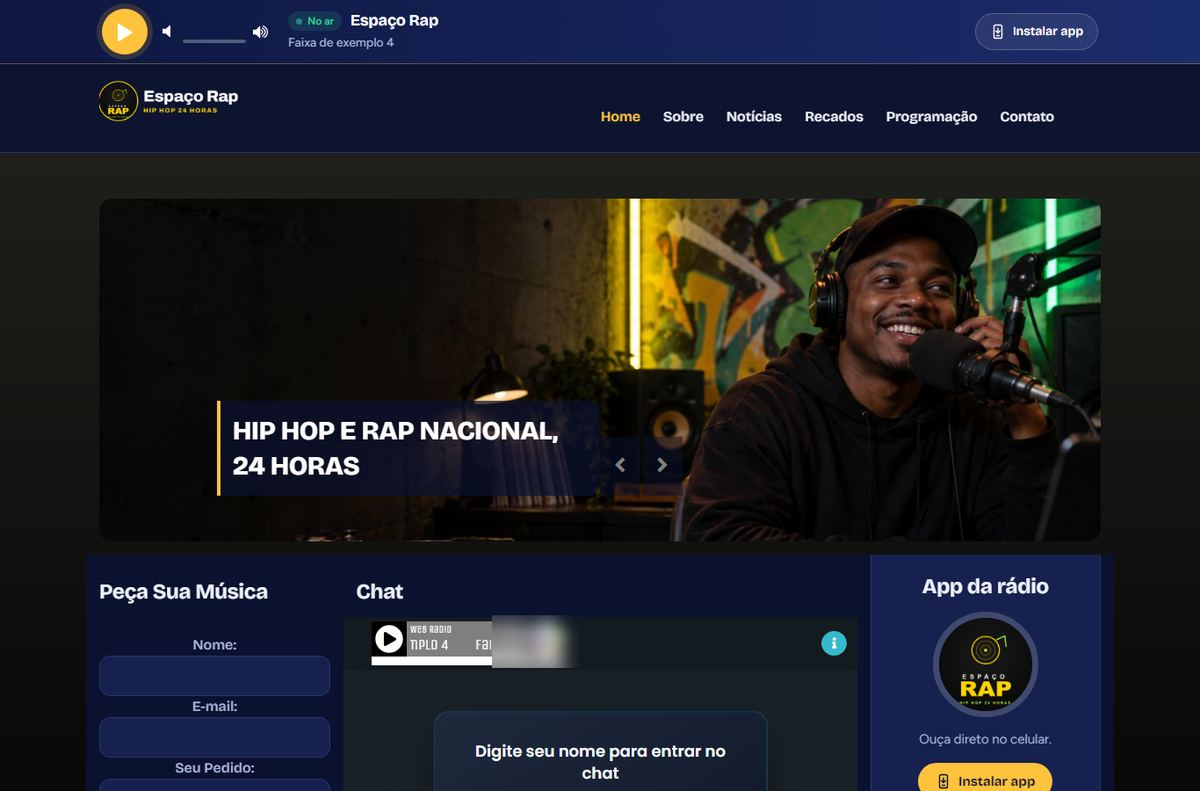
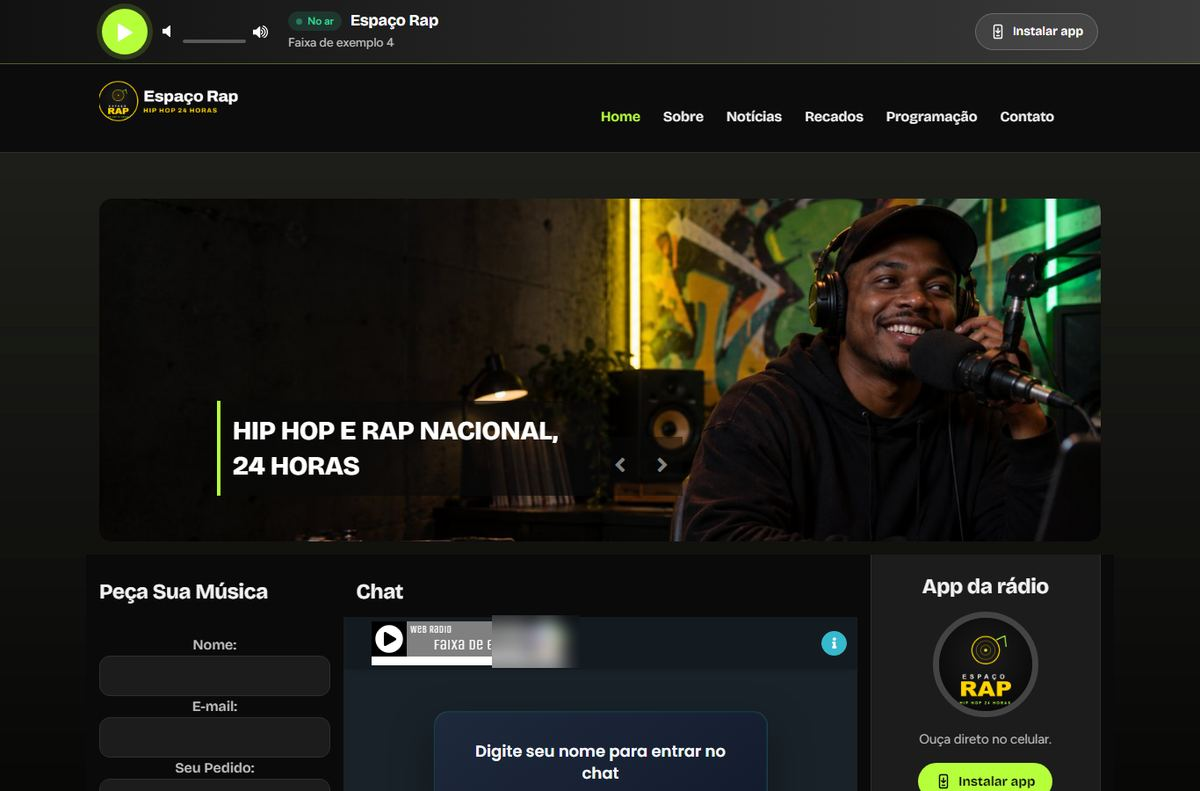
Vitrine: gospel entra no carrossel e cada exemplo com a sua paleta
O print fixo do gospel saiu; o carrossel passa pelos 7 exemplos. Os sites de
flashback, noticias, sertanejo, rock, rap e samba ganharam cores proprias
(player, menu, botoes e caixas), nao so a foto.

diff --git a/index.html b/index.html
@@ -172,39 +172,35 @@
       <h2 id="site-titulo">Um site de rádio de verdade, com o nome da sua&nbsp;rádio.</h2>
       <p class="vitrine__lead">Ele já vem pronto, num endereço como <span class="endereco endereco--claro">suaradio.zunofm.com</span>. Você troca a logo, as fotos e os textos pelo editor, sem programar, e o site fica com a cara da sua rádio.</p>
     </div>
-    <figure class="navegador navegador--grande">
-      <div class="navegador__barra" aria-hidden="true"><span></span><span></span><span></span><b>radiosomdoceu.zunofm.com</b></div>
-      <img src="assets/img/vitrine/site-topo.jpg" width="1200" height="791" loading="lazy" alt="Site da Rádio Som do Céu: logo, menu com Notícias, Programação, Eventos e Fotos, slide com o locutor no estúdio, pedido de música, bate-papo e o cartão do app">
-    </figure>
-    <p class="vitrine__legenda">Exemplo: a Rádio Som do Céu, montada no modelo que vem com todos os planos. <a href="https://radiosomdoceu.zunofm.com/" target="_blank" rel="noopener">Abrir o site de exemplo</a></p>
-
     <div class="estilos">
-      <h3 class="estilos__titulo">Serve para qualquer estilo</h3>
-      <p class="estilos__sub">O mesmo modelo, com a logo, as cores e as fotos de cada rádio. Estes também são exemplos montados por nós.</p>
-      <div class="carrossel" aria-roledescription="carrossel" aria-label="Sites de rádios de exemplo em outros estilos">
+      <div class="carrossel" aria-roledescription="carrossel" aria-label="Sites de rádios de exemplo, um por estilo">
         <ul class="carrossel__trilho" id="carrossel-trilho">
-        <li class="estilo" id="estilo-flashback" aria-roledescription="slide" aria-label="1 de 6: Flashback">
-          <img src="assets/img/exemplos/flashback.jpg" width="1200" height="791" loading="lazy" alt="Site da rádio de exemplo Flashback da Serra, estilo Flashback: logo, menu, capa e player">
+        <li class="estilo" id="estilo-gospel" aria-roledescription="slide" aria-label="1 de 7: Gospel">
+          <img src="assets/img/exemplos/gospel.jpg" width="1200" height="791" alt="Site da rádio de exemplo Rádio Som do Céu, estilo Gospel: logo, menu, capa e player nas cores da rádio">
+          <p class="estilo__legenda"><span class="estilo__tag">Gospel</span><b>Rádio Som do Céu</b><a href="https://radiosomdoceu.zunofm.com/" target="_blank" rel="noopener">Abrir o site de exemplo</a></p>
+        </li>
+        <li class="estilo" id="estilo-flashback" aria-roledescription="slide" aria-label="2 de 7: Flashback">
+          <img src="assets/img/exemplos/flashback.jpg" width="1200" height="791" loading="lazy" alt="Site da rádio de exemplo Flashback da Serra, estilo Flashback: logo, menu, capa e player nas cores da rádio">
           <p class="estilo__legenda"><span class="estilo__tag">Flashback</span><b>Flashback da Serra</b><a href="https://exemplos.zunofm.com/flashback/" target="_blank" rel="noopener">Abrir o site de exemplo</a></p>
         </li>
-        <li class="estilo" id="estilo-noticias" aria-roledescription="slide" aria-label="2 de 6: Notícias">
-          <img src="assets/img/exemplos/noticias.jpg" width="1200" height="791" loading="lazy" alt="Site da rádio de exemplo Voz do Vale, estilo Notícias: logo, menu, capa e player">
+        <li class="estilo" id="estilo-noticias" aria-roledescription="slide" aria-label="3 de 7: Notícias">
+          <img src="assets/img/exemplos/noticias.jpg" width="1200" height="791" loading="lazy" alt="Site da rádio de exemplo Voz do Vale, estilo Notícias: logo, menu, capa e player nas cores da rádio">
           <p class="estilo__legenda"><span class="estilo__tag">Notícias</span><b>Voz do Vale</b><a href="https://exemplos.zunofm.com/noticias/" target="_blank" rel="noopener">Abrir o site de exemplo</a></p>
         </li>
-        <li class="estilo" id="estilo-sertanejo" aria-roledescription="slide" aria-label="3 de 6: Sertanejo">
-          <img src="assets/img/exemplos/sertanejo.jpg" width="1200" height="791" loading="lazy" alt="Site da rádio de exemplo Modão Raiz, estilo Sertanejo: logo, menu, capa e player">
+        <li class="estilo" id="estilo-sertanejo" aria-roledescription="slide" aria-label="4 de 7: Sertanejo">
+          <img src="assets/img/exemplos/sertanejo.jpg" width="1200" height="791" loading="lazy" alt="Site da rádio de exemplo Modão Raiz, estilo Sertanejo: logo, menu, capa e player nas cores da rádio">
           <p class="estilo__legenda"><span class="estilo__tag">Sertanejo</span><b>Modão Raiz</b><a href="https://exemplos.zunofm.com/sertanejo/" target="_blank" rel="noopener">Abrir o site de exemplo</a></p>
         </li>
-        <li class="estilo" id="estilo-rock" aria-roledescription="slide" aria-label="4 de 6: Rock">
-          <img src="assets/img/exemplos/rock.jpg" width="1200" height="791" loading="lazy" alt="Site da rádio de exemplo Estrada Rock, estilo Rock: logo, menu, capa e player">
+        <li class="estilo" id="estilo-rock" aria-roledescription="slide" aria-label="5 de 7: Rock">
+          <img src="assets/img/exemplos/rock.jpg" width="1200" height="791" loading="lazy" alt="Site da rádio de exemplo Estrada Rock, estilo Rock: logo, menu, capa e player nas cores da rádio">
           <p class="estilo__legenda"><span class="estilo__tag">Rock</span><b>Estrada Rock</b><a href="https://exemplos.zunofm.com/rock/" target="_blank" rel="noopener">Abrir o site de exemplo</a></p>
         </li>
-        <li class="estilo" id="estilo-rap" aria-roledescription="slide" aria-label="5 de 6: Rap e hip hop">
-          <img src="assets/img/exemplos/rap.jpg" width="1200" height="791" loading="lazy" alt="Site da rádio de exemplo Espaço Rap, estilo Rap e hip hop: logo, menu, capa e player">
+        <li class="estilo" id="estilo-rap" aria-roledescription="slide" aria-label="6 de 7: Rap e hip hop">
+          <img src="assets/img/exemplos/rap.jpg" width="1200" height="791" loading="lazy" alt="Site da rádio de exemplo Espaço Rap, estilo Rap e hip hop: logo, menu, capa e player nas cores da rádio">
           <p class="estilo__legenda"><span class="estilo__tag">Rap e hip hop</span><b>Espaço Rap</b><a href="https://exemplos.zunofm.com/rap/" target="_blank" rel="noopener">Abrir o site de exemplo</a></p>
         </li>
-        <li class="estilo" id="estilo-samba" aria-roledescription="slide" aria-label="6 de 6: Samba e pagode">
-          <img src="assets/img/exemplos/samba.jpg" width="1200" height="791" loading="lazy" alt="Site da rádio de exemplo Roda de Samba, estilo Samba e pagode: logo, menu, capa e player">
+        <li class="estilo" id="estilo-samba" aria-roledescription="slide" aria-label="7 de 7: Samba e pagode">
+          <img src="assets/img/exemplos/samba.jpg" width="1200" height="791" loading="lazy" alt="Site da rádio de exemplo Roda de Samba, estilo Samba e pagode: logo, menu, capa e player nas cores da rádio">
           <p class="estilo__legenda"><span class="estilo__tag">Samba e pagode</span><b>Roda de Samba</b><a href="https://exemplos.zunofm.com/samba/" target="_blank" rel="noopener">Abrir o site de exemplo</a></p>
         </li>
         </ul>
@@ -212,13 +208,15 @@
         <button type="button" class="carrossel__seta carrossel__seta--depois" data-passo="1" aria-label="Próximo exemplo"></button>
       </div>
       <div class="carrossel__pontos" role="group" aria-label="Escolher o exemplo">
-        <button type="button" class="carrossel__ponto" data-ir="0" aria-label="Ver Flashback" aria-current="true"></button>
-        <button type="button" class="carrossel__ponto" data-ir="1" aria-label="Ver Notícias"></button>
-        <button type="button" class="carrossel__ponto" data-ir="2" aria-label="Ver Sertanejo"></button>
-        <button type="button" class="carrossel__ponto" data-ir="3" aria-label="Ver Rock"></button>
-        <button type="button" class="carrossel__ponto" data-ir="4" aria-label="Ver Rap e hip hop"></button>
-        <button type="button" class="carrossel__ponto" data-ir="5" aria-label="Ver Samba e pagode"></button>
+        <button type="button" class="carrossel__ponto" data-ir="0" aria-label="Ver Gospel" aria-current="true"></button>
+        <button type="button" class="carrossel__ponto" data-ir="1" aria-label="Ver Flashback"></button>
+        <button type="button" class="carrossel__ponto" data-ir="2" aria-label="Ver Notícias"></button>
+        <button type="button" class="carrossel__ponto" data-ir="3" aria-label="Ver Sertanejo"></button>
+        <button type="button" class="carrossel__ponto" data-ir="4" aria-label="Ver Rock"></button>
+        <button type="button" class="carrossel__ponto" data-ir="5" aria-label="Ver Rap e hip hop"></button>
+        <button type="button" class="carrossel__ponto" data-ir="6" aria-label="Ver Samba e pagode"></button>
       </div>
+      <p class="vitrine__legenda">Exemplos montados por nós no modelo que vem com todos os planos: cada rádio com a sua logo, as suas cores e as suas fotos.</p>
     </div>
 
     <div class="vitrine__destaques">

diff --git a/assets/css/site.css b/assets/css/site.css
@@ -374,7 +374,8 @@ img { display: block; max-width: 100%; height: auto; }
    Prints dos sites de exemplo em exemplos.zunofm.com/<estilo>, sem barra de
    endereço; o link embaixo de cada um abre o site de verdade. Passa sozinho,
    para quando o visitante interage ou pede menos movimento. */
-.estilos { margin-top: 3.5rem; }
+.estilos { margin-top: 2.75rem; }
+.estilos .vitrine__legenda { text-align: center; }
 .estilos__titulo { color: var(--branco); font-size: 1.45rem; }
 .estilos__sub { margin-top: 0.5rem; color: var(--no-escuro); max-width: 40rem; }
 .carrossel { position: relative; margin-top: 1.5rem; }
